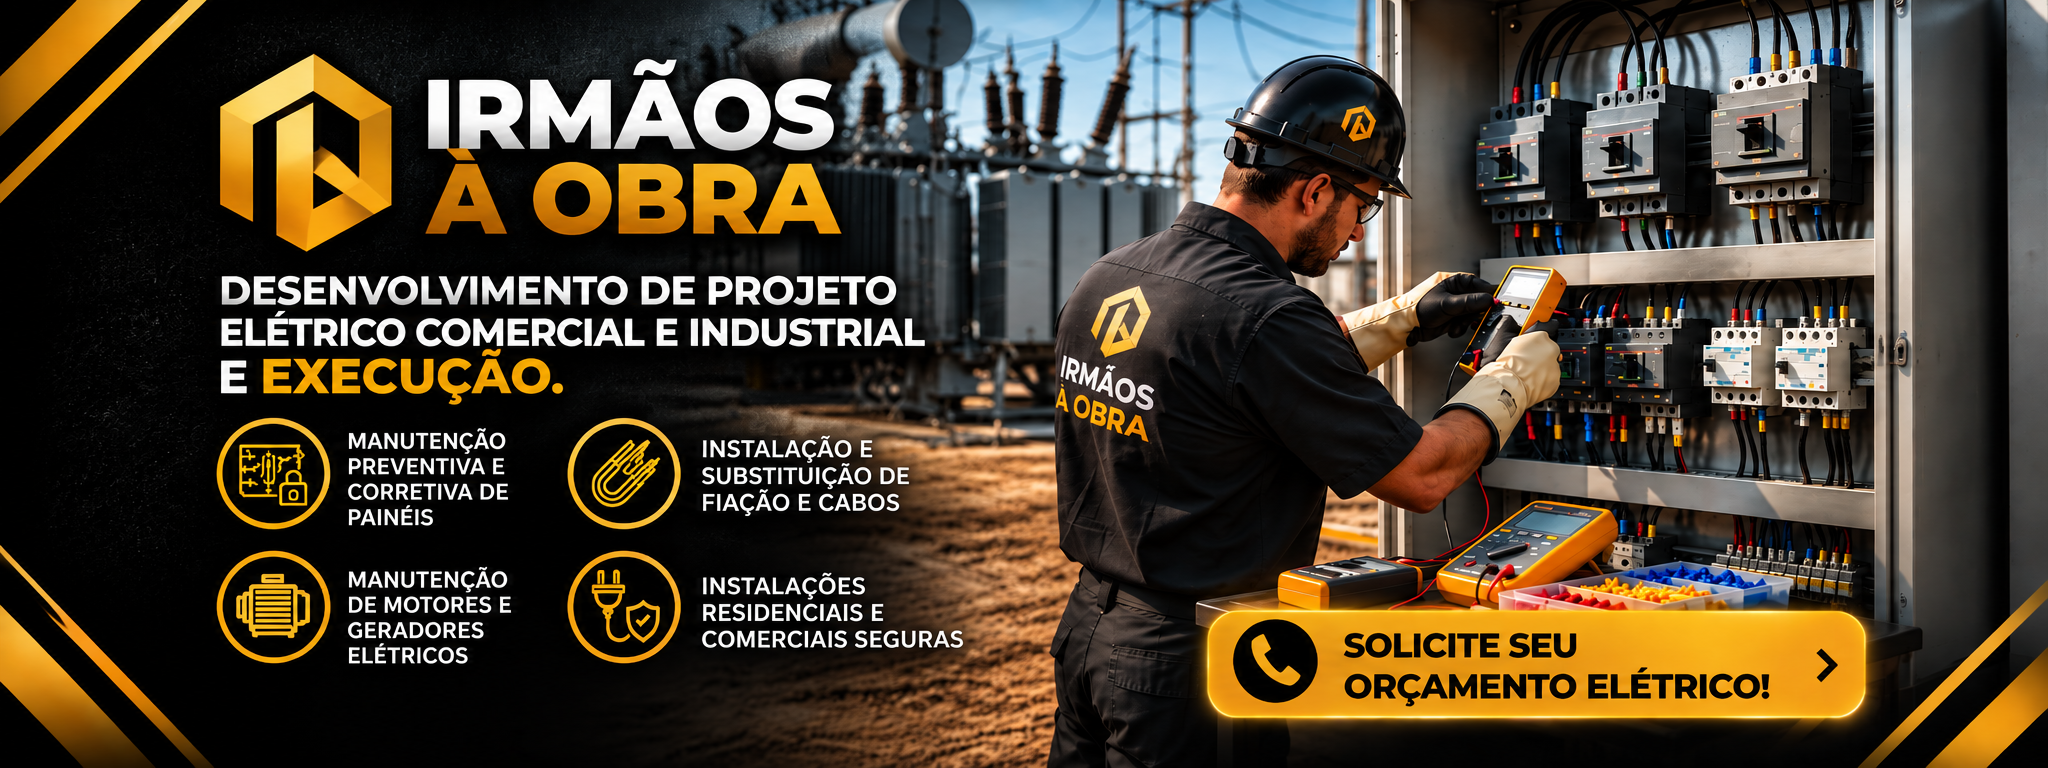
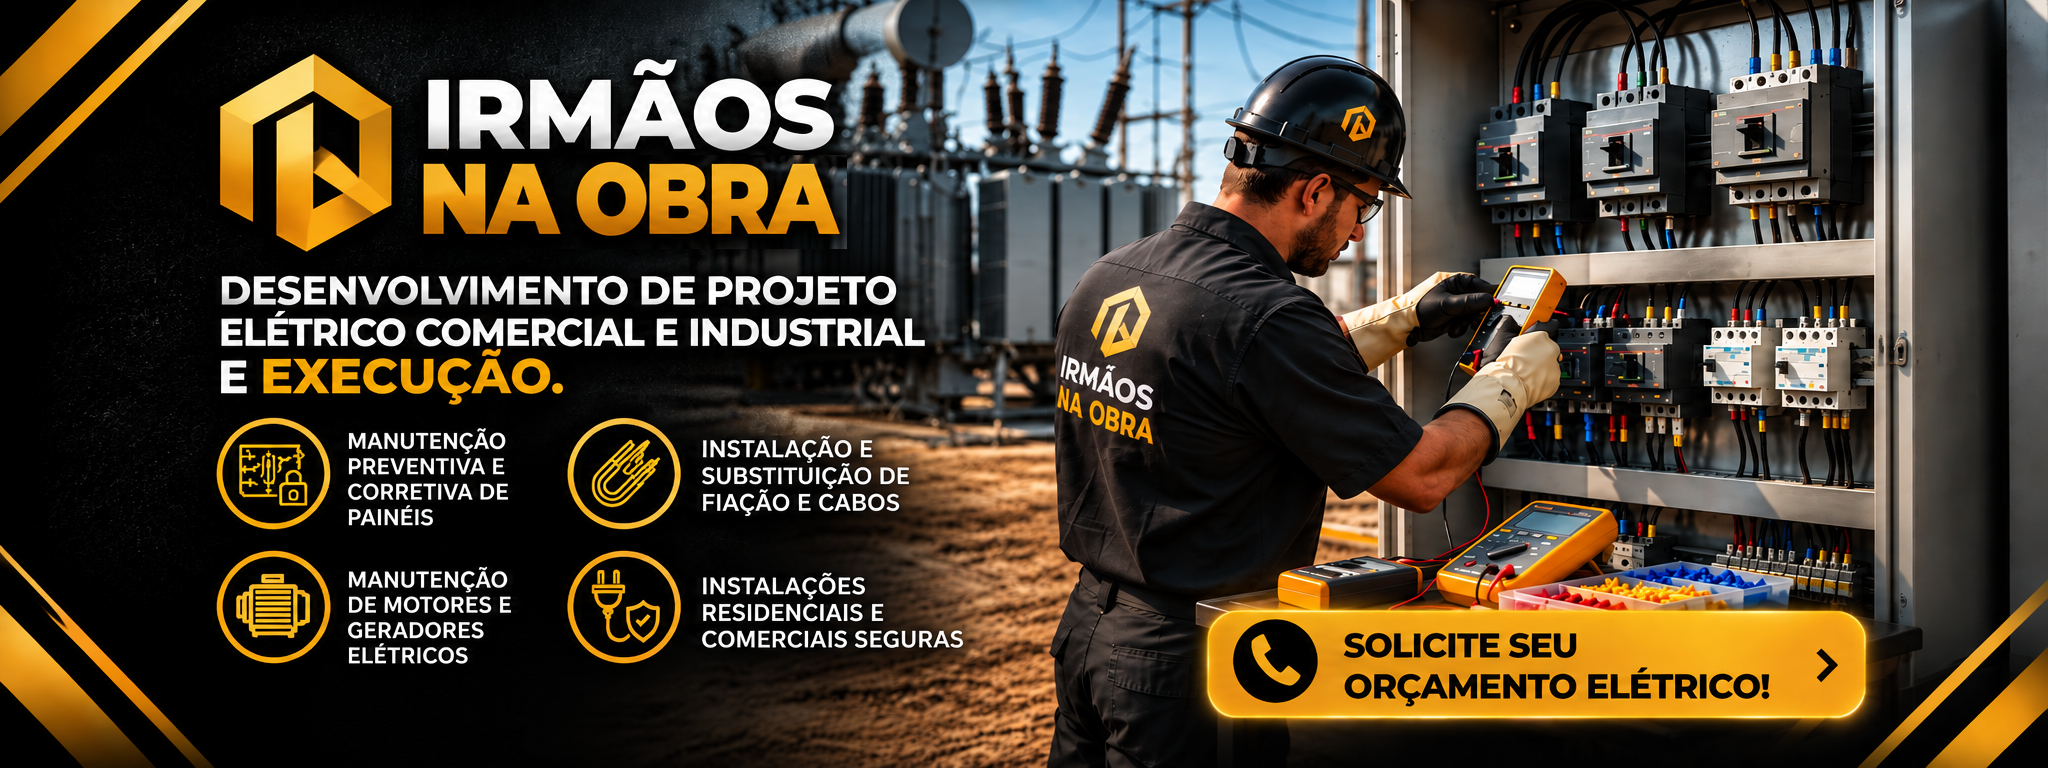
Add files via upload

Changed region(s): [[0.1875, 0.1875, 0.4375, 0.3125], [0.5, 0.5, 0.5625, 0.5938]]

diff --git a/index.html b/index.html
@@ -3,9 +3,9 @@
 <head>
   <meta charset="utf-8">
   <meta name="viewport" content="width=device-width,initial-scale=1">
-  <title>Irmãos à Obra | Instalação e manutenção elétrica com garantia por até 5 anos</title>
-  <meta name="description" content="Irmãos à Obra: instalação e manutenção elétrica com atendimento direto de Fábio e Marcos e garantia por até 5 anos.">
-  <meta property="og:title" content="Irmãos à Obra | Instalação e manutenção elétrica">
+  <title>Irmãos na Obra | Instalação e manutenção elétrica com garantia por até 5 anos</title>
+  <meta name="description" content="Irmãos na Obra: instalação e manutenção elétrica com atendimento direto de Fábio e Marcos e garantia por até 5 anos.">
+  <meta property="og:title" content="Irmãos na Obra | Instalação e manutenção elétrica">
   <meta property="og:description" content="Atendimento direto com os irmãos Fábio e Marcos. Garantia por até 5 anos.">
   <meta property="og:type" content="website">
   <meta property="og:image" content="assets/images/banner-principal-desktop.webp">
@@ -16,7 +16,7 @@
   <link rel="preconnect" href="https://fonts.gstatic.com" crossorigin>
   <link href="https://fonts.googleapis.com/css2?family=Inter:wght@400;500;600&family=Montserrat:wght@700;800&display=swap" rel="stylesheet">
   <link rel="stylesheet" href="styles.css">
-  <script type="application/ld+json">{"@context":"https://schema.org","@type":"Electrician","name":"Irmãos à Obra","telephone":["+55 48 99169-6661","+55 48 99686-5570"],"description":"Instalação e manutenção elétrica com atendimento direto dos irmãos Fábio e Marcos e garantia por até 5 anos.","areaServed":[{"@type":"City","name":"Florianópolis"},{"@type":"City","name":"São José"},{"@type":"City","name":"Palhoça"},{"@type":"City","name":"Santo Amaro da Imperatriz"},{"@type":"City","name":"Biguaçu"},{"@type":"City","name":"Águas Mornas"},{"@type":"City","name":"São Pedro de Alcântara"},{"@type":"City","name":"Antônio Carlos"},{"@type":"City","name":"Governador Celso Ramos"},{"@type":"City","name":"Paulo Lopes"},{"@type":"City","name":"Tijucas"},{"@type":"City","name":"Rancho Queimado"}]}</script>
+  <script type="application/ld+json">{"@context":"https://schema.org","@type":"Electrician","name":"Irmãos na Obra","telephone":["+55 48 99169-6661","+55 48 99686-5570"],"description":"Instalação e manutenção elétrica com atendimento direto dos irmãos Fábio e Marcos e garantia por até 5 anos.","areaServed":[{"@type":"City","name":"Florianópolis"},{"@type":"City","name":"São José"},{"@type":"City","name":"Palhoça"},{"@type":"City","name":"Santo Amaro da Imperatriz"},{"@type":"City","name":"Biguaçu"},{"@type":"City","name":"Águas Mornas"},{"@type":"City","name":"São Pedro de Alcântara"},{"@type":"City","name":"Antônio Carlos"},{"@type":"City","name":"Governador Celso Ramos"},{"@type":"City","name":"Paulo Lopes"},{"@type":"City","name":"Tijucas"},{"@type":"City","name":"Rancho Queimado"}]}</script>
 </head>
 <body>
   <svg class="sprite" aria-hidden="true" focusable="false">
@@ -33,22 +33,22 @@
     <div class="container header-inner">
       <nav class="desktop-nav" aria-label="Navegação principal">
         <!-- Destinos preparados para as seções que serão adicionadas nas próximas etapas. -->
-        <a href="https://wa.me/5548991696661?text=Ol%C3%A1%21%20Vim%20pelo%20site%20dos%20Irm%C3%A3os%20%C3%A0%20Obra%20e%20quero%20fazer%20um%20or%C3%A7amento." data-contato="orcamento" target="_blank" rel="noopener noreferrer">Orçamento</a><a href="#certificacoes" data-nav>Certificações</a><a href="#regioes" data-nav>Regiões</a>
+        <a href="https://wa.me/5548991696661?text=Ol%C3%A1%21%20Vim%20pelo%20site%20dos%20Irm%C3%A3os%20na%20Obra%20e%20quero%20fazer%20um%20or%C3%A7amento." data-contato="orcamento" target="_blank" rel="noopener noreferrer">Orçamento</a><a href="#certificacoes" data-nav>Certificações</a><a href="#regioes" data-nav>Regiões</a>
       </nav>
       <a class="header-cta" href="#" data-contato="orcamento"><svg class="icone-btn" aria-hidden="true"><use href="#i-telefone"/></svg><span>Faça seu orçamento agora</span></a>
       <button class="menu-toggle" type="button" aria-expanded="false" aria-controls="mobile-menu" aria-label="Abrir menu"><span></span><span></span><span></span></button>
     </div>
     <div class="mobile-menu" id="mobile-menu" hidden>
-      <nav aria-label="Navegação mobile"><a href="https://wa.me/5548991696661?text=Ol%C3%A1%21%20Vim%20pelo%20site%20dos%20Irm%C3%A3os%20%C3%A0%20Obra%20e%20quero%20fazer%20um%20or%C3%A7amento." data-contato="orcamento" target="_blank" rel="noopener noreferrer">Orçamento</a><a href="#certificacoes" data-nav>Certificações</a><a href="#regioes" data-nav>Regiões</a><a class="mobile-cta" href="#" data-contato="orcamento"><svg class="icone-btn" aria-hidden="true"><use href="#i-whatsapp"/></svg><span>Faça seu orçamento agora</span></a></nav>
+      <nav aria-label="Navegação mobile"><a href="https://wa.me/5548991696661?text=Ol%C3%A1%21%20Vim%20pelo%20site%20dos%20Irm%C3%A3os%20na%20Obra%20e%20quero%20fazer%20um%20or%C3%A7amento." data-contato="orcamento" target="_blank" rel="noopener noreferrer">Orçamento</a><a href="#certificacoes" data-nav>Certificações</a><a href="#regioes" data-nav>Regiões</a><a class="mobile-cta" href="#" data-contato="orcamento"><svg class="icone-btn" aria-hidden="true"><use href="#i-whatsapp"/></svg><span>Faça seu orçamento agora</span></a></nav>
     </div>
   </header>
 
   <main>
-    <section class="hero hero-arte" id="inicio" aria-label="Irmãos à Obra — planejamento, projeto e execução na construção civil">
+    <section class="hero hero-arte" id="inicio" aria-label="Irmãos na Obra — planejamento, projeto e execução na construção civil">
       <div class="hero-photo-wrap">
         <picture class="hero-picture">
           <source media="(max-width: 767px)" srcset="assets/images/banner-principal-mobile.webp" type="image/webp" width="941" height="1548">
-          <img class="hero-photo" src="assets/images/banner-principal-desktop.webp" width="2048" height="768" loading="eager" decoding="async" fetchpriority="high" alt="Irmãos à Obra — planejamento, projeto e execução na construção civil">
+          <img class="hero-photo" src="assets/images/banner-principal-desktop.webp" width="2048" height="768" loading="eager" decoding="async" fetchpriority="high" alt="Irmãos na Obra — planejamento, projeto e execução na construção civil">
         </picture>
       </div>
       <div class="hero-cursor-glow" aria-hidden="true"></div>
@@ -56,12 +56,12 @@
 
     <div class="visual-divider" aria-hidden="true"><img src="assets/images/divisor-dourado.png" alt="" width="2048" height="768" loading="lazy" decoding="async"></div>
 
-    <section class="apresentacao-section" aria-label="Apresentação oficial da equipe Irmãos à Obra">
+    <section class="apresentacao-section" aria-label="Apresentação oficial da equipe Irmãos na Obra">
       <div class="apresentacao-media" data-apresentacao>
         <picture>
           <source media="(max-width: 767px)" srcset="assets/images/apresentacao-oficial-irmaos-a-obra-mobile.png" type="image/png" width="1024" height="1536">
           <source srcset="assets/images/apresentacao-oficial-irmaos-a-obra.webp" type="image/webp">
-          <img class="apresentacao-imagem" src="assets/images/apresentacao-oficial-irmaos-a-obra.png" width="2048" height="768" loading="lazy" decoding="async" alt="Irmãos à Obra — equipe técnica e plantão de emergência elétrica">
+          <img class="apresentacao-imagem" src="assets/images/apresentacao-oficial-irmaos-a-obra.png" width="2048" height="768" loading="lazy" decoding="async" alt="Irmãos na Obra — equipe técnica e plantão de emergência elétrica">
         </picture>
         <a class="apresentacao-cta" href="https://wa.me/5548991696661?text=Ol%C3%A1%21%20Preciso%20de%20atendimento%20para%20um%20problema%20el%C3%A9trico." target="_blank" rel="noopener noreferrer" aria-label="Chamar atendimento de emergência"></a>
       </div>
@@ -74,7 +74,7 @@
         <picture>
           <source media="(max-width: 767px)" srcset="assets/images/manutencao-eletrica-florianopolis-mobile.png" type="image/png" width="1024" height="1536">
           <source srcset="assets/images/manutencao-eletrica-florianopolis-nova.webp" type="image/webp">
-          <img class="manutencao-eletrica-nova-imagem" src="assets/images/manutencao-eletrica-florianopolis-nova.png" width="2048" height="768" loading="lazy" decoding="async" alt="Irmãos à Obra — instalação e manutenção elétrica em Florianópolis e região">
+          <img class="manutencao-eletrica-nova-imagem" src="assets/images/manutencao-eletrica-florianopolis-nova.png" width="2048" height="768" loading="lazy" decoding="async" alt="Irmãos na Obra — instalação e manutenção elétrica em Florianópolis e região">
         </picture>
         <a class="manutencao-eletrica-nova-hotspot manutencao-eletrica-nova-contato" href="#" data-contato="principal" aria-label="Entrar em contato agora"></a>
         <a class="manutencao-eletrica-nova-hotspot manutencao-eletrica-nova-orcamento" href="#" data-contato="orcamento" aria-label="Fazer orçamento agora"></a>
@@ -88,7 +88,7 @@
         <picture>
           <source media="(max-width: 767px)" srcset="assets/images/instalacao-ar-condicionado-mobile.png" type="image/png" width="1024" height="1536">
           <source srcset="assets/images/instalacao-ar-condicionado-climatizacao-24h.webp" type="image/webp">
-          <img class="climatizacao-24h-imagem" src="assets/images/instalacao-ar-condicionado-climatizacao-24h.png" width="2048" height="768" loading="lazy" decoding="async" alt="Irmãos à Obra — instalação de ar-condicionado, manutenção e plantão">
+          <img class="climatizacao-24h-imagem" src="assets/images/instalacao-ar-condicionado-climatizacao-24h.png" width="2048" height="768" loading="lazy" decoding="async" alt="Irmãos na Obra — instalação de ar-condicionado, manutenção e plantão">
         </picture>
         <a class="climatizacao-24h-cta" href="#" data-contato="orcamento" aria-label="Solicitar orçamento ou chamar plantão"></a>
       </div>
@@ -101,9 +101,9 @@
         <picture>
           <source media="(max-width: 767px)" srcset="assets/images/projeto-eletrico-mobile.png" type="image/png" width="1024" height="1536">
           <source srcset="assets/images/projeto-eletrico-comercial-industrial-novo.webp" type="image/webp">
-          <img class="projeto-eletrico-imagem" src="assets/images/projeto-eletrico-comercial-industrial-novo.png" width="2048" height="768" loading="lazy" decoding="async" alt="Irmãos à Obra — desenvolvimento de projeto elétrico comercial e industrial e execução">
+          <img class="projeto-eletrico-imagem" src="assets/images/projeto-eletrico-comercial-industrial-novo.png" width="2048" height="768" loading="lazy" decoding="async" alt="Irmãos na Obra — desenvolvimento de projeto elétrico comercial e industrial e execução">
         </picture>
-        <a class="projeto-eletrico-cta" href="https://wa.me/5548991696661?text=Ol%C3%A1%21%20Vim%20pelo%20site%20dos%20Irm%C3%A3os%20%C3%A0%20Obra%20e%20quero%20fazer%20um%20or%C3%A7amento." target="_blank" rel="noopener noreferrer" aria-label="Solicitar orçamento elétrico"></a>
+        <a class="projeto-eletrico-cta" href="https://wa.me/5548991696661?text=Ol%C3%A1%21%20Vim%20pelo%20site%20dos%20Irm%C3%A3os%20na%20Obra%20e%20quero%20fazer%20um%20or%C3%A7amento." target="_blank" rel="noopener noreferrer" aria-label="Solicitar orçamento elétrico"></a>
       </div>
     </section>
     <section class="certificacoes-section" id="certificacoes" aria-labelledby="certificacoes-title">
@@ -159,7 +159,7 @@
         <header class="servicos-head regioes-head">
           <div class="servicos-kicker"><span aria-hidden="true"></span><b>REGIÕES</b><span aria-hidden="true"></span></div>
           <h2 id="regioes-title"><span class="linha">Atendemos Florianópolis</span><span class="linha destaque">e toda a região.</span></h2>
-          <p>Confira as cidades atendidas e fale com os Irmãos à Obra para pedir seu orçamento.</p>
+          <p>Confira as cidades atendidas e fale com os Irmãos na Obra para pedir seu orçamento.</p>
         </header>
         <div class="regioes-conteudo">
           <div class="mapa-card">
@@ -209,11 +209,11 @@
           </details>
           <details class="faq-item">
             <summary><span>Preciso contratar vários profissionais?</span><i class="faq-icone" aria-hidden="true"></i></summary>
-            <div class="faq-resposta"><p>Não. Você fecha um único contrato, e os Irmãos à Obra resolvem a obra por você.</p></div>
+            <div class="faq-resposta"><p>Não. Você fecha um único contrato, e os Irmãos na Obra resolvem a obra por você.</p></div>
           </details>
           <details class="faq-item">
             <summary><span>Qual é a garantia?</span><i class="faq-icone" aria-hidden="true"></i></summary>
-            <div class="faq-resposta"><p>Os serviços dos Irmãos à Obra têm garantia por até 5 anos.</p></div>
+            <div class="faq-resposta"><p>Os serviços dos Irmãos na Obra têm garantia por até 5 anos.</p></div>
           </details>
           <details class="faq-item">
             <summary><span>Vocês atendem emergências?</span><i class="faq-icone" aria-hidden="true"></i></summary>
@@ -239,7 +239,7 @@
       <div class="rodape-principal">
         <div class="container rodape-grid">
           <div class="rodape-marca">
-            <img class="rodape-logo" src="assets/logo/logo-irmaos.webp" alt="Irmãos à Obra" width="224" height="84" loading="eager" decoding="async">
+            <img class="rodape-logo" src="assets/logo/logo-irmaos.webp" alt="Irmãos na Obra" width="224" height="84" loading="eager" decoding="async">
             <p class="rodape-marca-texto">Instalação e manutenção elétrica em Florianópolis e Região.</p>
             <p class="rodape-garantia">Garantia por até 5 anos.</p>
           </div>
@@ -263,7 +263,7 @@
           </div>
         </div>
       </div>
-      <div class="rodape-direitos"><div class="container"><p>© <span id="ano">2026</span> Irmãos à Obra. Todos os direitos reservados.</p></div></div>
+      <div class="rodape-direitos"><div class="container"><p>© <span id="ano">2026</span> Irmãos na Obra. Todos os direitos reservados.</p></div></div>
     </footer>
 
     <dialog class="galeria-lightbox" aria-label="Galeria de imagens" data-galeria-lightbox>

diff --git a/script.js b/script.js
@@ -6,8 +6,8 @@ const CONFIG = {
   telefones: { principal: '5548991696661', secundario: '5548996865570' },
   textos: { principal: '(48) 99169-6661', secundario: '(48) 99686-5570' },
   mensagens: {
-    principal: 'Olá! Vim pelo site dos Irmãos à Obra e quero atendimento.',
-    orcamento: 'Olá! Vim pelo site dos Irmãos à Obra e quero fazer um orçamento.'
+    principal: 'Olá! Vim pelo site dos Irmãos na Obra e quero atendimento.',
+    orcamento: 'Olá! Vim pelo site dos Irmãos na Obra e quero fazer um orçamento.'
   },
   certificacoes: [
     {sigla:'NR 10',legenda:'Eletricidade',garante:'Equipe com treinamento de 40 horas da NR 10 e reciclagens periódicas, capacitada em medidas de controle de risco elétrico.'},
@@ -170,7 +170,7 @@ if(servicosGrid){
     const dialogImg=servicoDialog.querySelector('[data-servico-dialog-img]'); dialogImg.src=s.cena; dialogImg.alt=s.alt; dialogImg.width=s.largura; dialogImg.height=s.altura;
     servicoDialog.querySelector('[data-servico-dialog-num]').textContent=s.numero; servicoDialog.querySelector('[data-servico-dialog-title]').textContent=s.titulo;
     servicoDialog.querySelector('[data-servico-dialog-list]').innerHTML=s.lista.map(x=>`<li>${x}</li>`).join('');
-    const cta=servicoDialog.querySelector('[data-servico-dialog-cta]'); cta.href=whatsappUrl(`Olá! Vim pelo site dos Irmãos à Obra e quero um orçamento de ${s.titulo}.`);
+    const cta=servicoDialog.querySelector('[data-servico-dialog-cta]'); cta.href=whatsappUrl(`Olá! Vim pelo site dos Irmãos na Obra e quero um orçamento de ${s.titulo}.`);
     document.documentElement.classList.add('dialog-open'); servicoDialog.showModal(); servicoDialog.querySelector('[data-servico-close]').focus();
   };
   cards.forEach((card,i)=>{card.addEventListener('click',()=>openServico(i,card));card.addEventListener('keydown',e=>{if(e.key==='Enter'||e.key===' '){e.preventDefault();openServico(i,card)}})});
@@ -257,7 +257,7 @@ if (regioesSection) {
     }
     const iframe = document.createElement('iframe');
     iframe.src = CONFIG.mapaUrl;
-    iframe.title = 'Mapa da região atendida pelos Irmãos à Obra';
+    iframe.title = 'Mapa da região atendida pelos Irmãos na Obra';
     iframe.referrerPolicy = 'no-referrer-when-downgrade';
     iframe.setAttribute('allowfullscreen', '');
     iframe.addEventListener('load', () => mapaStatus?.remove(), { once: true });

diff --git a/README.md b/README.md
@@ -1,4 +1,4 @@
-# Irmãos à Obra — base do site
+# Irmãos na Obra — base do site
 
 Base one-page pronta para GitHub Pages. Nesta etapa existem apenas: cabeçalho, banner principal e botão flutuante de WhatsApp. Os links Serviços, Orçamento, Certificações e Regiões já estão preparados para as próximas seções, mas ainda não têm seções correspondentes.
 
@@ -53,7 +53,7 @@ Quando Serviços, Orçamento, Certificações e Regiões forem criadas, use resp
 - Nova seção `#servicos` logo abaixo do banner, com cabeçalho, grade bento de 7 serviços e faixa final de contato.
 - Cenas: `assets/images/servicos/servico-01.webp` até `servico-07.webp`. Para trocar uma cena, substitua o PNG mantendo o mesmo nome/caminho.
 - Títulos, descrições, listas, cenas e textos alternativos ficam no array `SERVICOS` em `script.js`.
-- O modal de cada serviço usa a mensagem: `Olá! Vim pelo site dos Irmãos à Obra e quero um orçamento de [nome do serviço].`, sempre com o número central do `CONFIG`.
+- O modal de cada serviço usa a mensagem: `Olá! Vim pelo site dos Irmãos na Obra e quero um orçamento de [nome do serviço].`, sempre com o número central do `CONFIG`.
 - O item “Serviços” do menu já aponta para `#servicos` e entra no scroll-spy existente.
 
 
